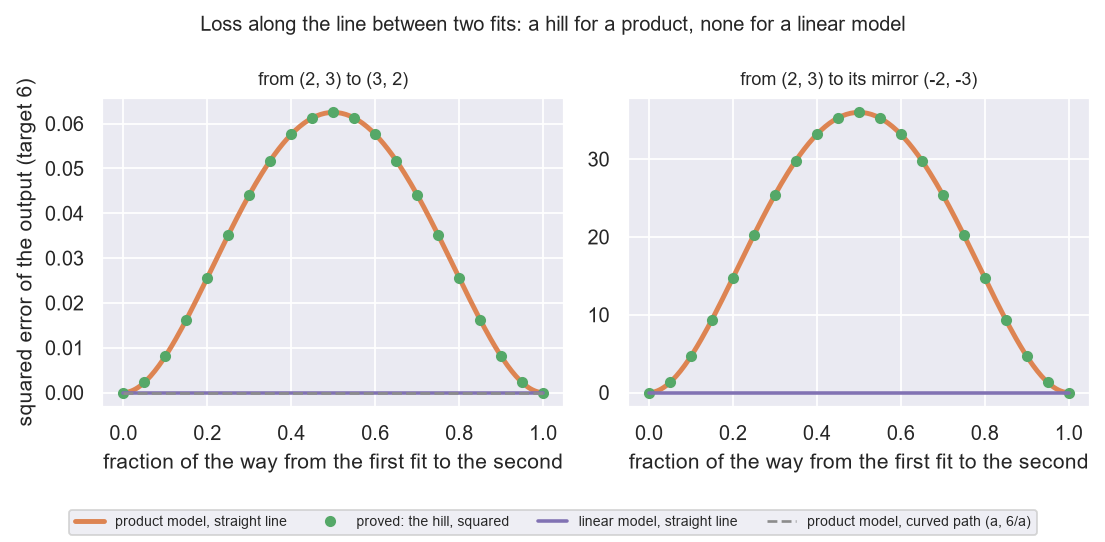
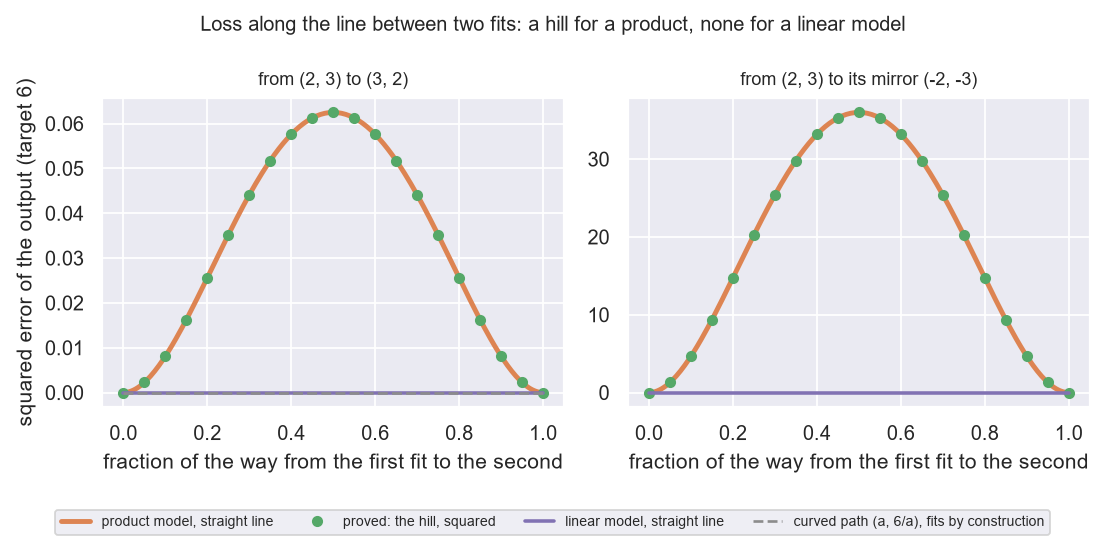
Chapter 35 notebook: audit against the new rules

Changed region(s): [[0.0308, 0.9446, 0.4615, 0.9742], [0.7077, 0.9446, 0.9538, 1.0], [0.4923, 0.9446, 0.6769, 0.9742]]

diff --git a/book/35-the-landscape.md b/book/35-the-landscape.md
@@ -159,23 +159,27 @@ simplex makes that distance as large as it can be for every pair at once.
 
 [`ch35_the_landscape.ipynb`](../experiments/part5/ch35_the_landscape.ipynb) uses a linear model in its weights (fixed
 sine and cosine features, 12 coefficients, 5 data points), the two-weight model, and unit arrows. It is evidence, not
-proof. For the linear model, two exact fits 8.42 apart have a largest error on the line between them of `6e-15`, and
-for 200 random pairs that do not fit, no point on the line is above the worse end. For two weights multiplied, 300
-random pairs of fits agree with `target - hill` to `4e-15`; dropping the hill term (the linear-model answer) misses by up
-to 15.80. The hand example gives output 6.25 and hill `-0.25`, and the mirror gives output 0 at the midpoint.
+proof. **Measured** on the linear model: two exact fits 8.42 apart have a largest error on the line between them of
+`6.3e-15`, and for 200 random pairs that do not fit, no point on the line is above the worse end (largest excess
+`0.0`). **Measured** on two weights multiplied: for 300 random pairs of fits, the multiplied output agrees with the
+formula `target - hill` to `3.6e-15`; dropping the hill term (the linear-model answer) misses by up to 15.80. Halfway
+between `(2, 3)` and `(3, 2)` the model output is 6.25; the hill `-0.25` is **from the formula**. For 200 random targets
+the mirror fits, and the multiplied output at the midpoint is exactly 0.
 
-**Measured**, the loss along the straight line peaks at 0.0625 halfway between `(2, 3)` and `(3, 2)` and at 36 halfway
-to the mirror `(-2, -3)`, and equals the hill squared. The linear model and the curved path `(a, 6 / a)` stay at zero, to
-`4e-29`. The curved path is drawn for contrast; the chapter does not prove it.
+The squared error of the product model along the straight line peaks at 0.0625 halfway between `(2, 3)` and `(3, 2)`
+and at 36.00 halfway to the mirror `(-2, -3)`; both agree with the hill squared (**from the formula**) to rounding
+error. The linear model's line has squared error at most `4.1e-29`. The curved path `(a, 6 / a)` is drawn for contrast:
+it fits by construction, its loss `7.9e-31` is not evidence, and the chapter does not prove it.
 
-![Squared error against the fraction of the way between two fits: the product model's straight line rises to 0.0625 for the swap and 36 for the mirror, on the proved hill squared, while the linear model and the curved path stay at zero](figures/35-hill-along-the-line.png)
+![Squared error of the output against the fraction of the way between two fits: the product model's straight line rises to 0.0625 for the swap and 36.00 for the mirror, with dots from the hill formula on it; the linear model's line is at zero; the curved path is drawn at zero because it fits by construction](figures/35-hill-along-the-line.png)
 
 For the arrows, a gradient search for unit arrows with the lowest largest overlap, for 2 to 10 classes, never went below
-`-1 / (classes - 1)` and came within `7e-4` of it; the best arrangements add up to a vector of length at most `1.3e-3`,
-the simplex. Arrows of length 1.5 break the hypothesis: for four classes their largest overlap is `-0.750`, below the
-unit limit `-0.333`, by 0.417. This checks the geometry only; no network was trained to collapse.
+`-1 / (classes - 1)` (smallest margin `-2.2e-16`, rounding) and came within `6.5e-04` of it; the best arrangements add up
+to a vector of length at most `1.3e-03`, the simplex. Arrows of length 1.5 break the hypothesis: for four classes the
+largest overlap of explicit simplex vectors of that length is `-0.750`, below the unit limit `-0.333`, by 0.417. This
+checks the geometry only; no network was trained to collapse.
 
-![Lowest largest overlap against the number of classes: the search for unit arrows sits on the limit, random arrangements above it, and arrows of length 1.5 below it](figures/35-class-overlap-limit.png)
+![Lowest largest overlap against the number of classes: the search for unit arrows lies on the limit, the best random arrangements lie above it, and explicit simplex arrows of length 1.5 lie below it](figures/35-class-overlap-limit.png)
 
 Run it:
 

diff --git a/book/proposals/proposal-20261117.md b/book/proposals/proposal-20261117.md
@@ -4573,7 +4573,7 @@ Chapters 16, 20, 39 and 44 were sent back to their helpers with the list. Chapte
 false sentence (the bound is not exact for two choices). `experiments/WRITING.md` now has
 three rules against these faults.
 
-Done after the review, the same day: the helpers of chapters 14, 15, 17 to 34 and 43
+Done after the review, the same day: the helpers of chapters 14, 15, 17 to 35 and 43
 audited their own notebooks against the three rules. Checks that hold by construction are
 now printed as such and not counted, numbers from a formula are called "from the formula",
 and every cited number is printed. The two findings for chapter 28 and the three for
@@ -4581,7 +4581,7 @@ chapter 34 are fixed. This was a self-audit, not a second reader.
 
 Still owed:
 
-- **Not yet audited:** the notebooks of chapters 35 to 38, 40 to 42 and 45
+- **Not yet audited:** the notebooks of chapters 36 to 38, 40 to 42 and 45
   to 47. Expect the same faults. Send each helper the same message, or use one reviewer per
   part with the six questions.
 - **A second reader** for the notebooks that were only self-audited, starting with chapters
